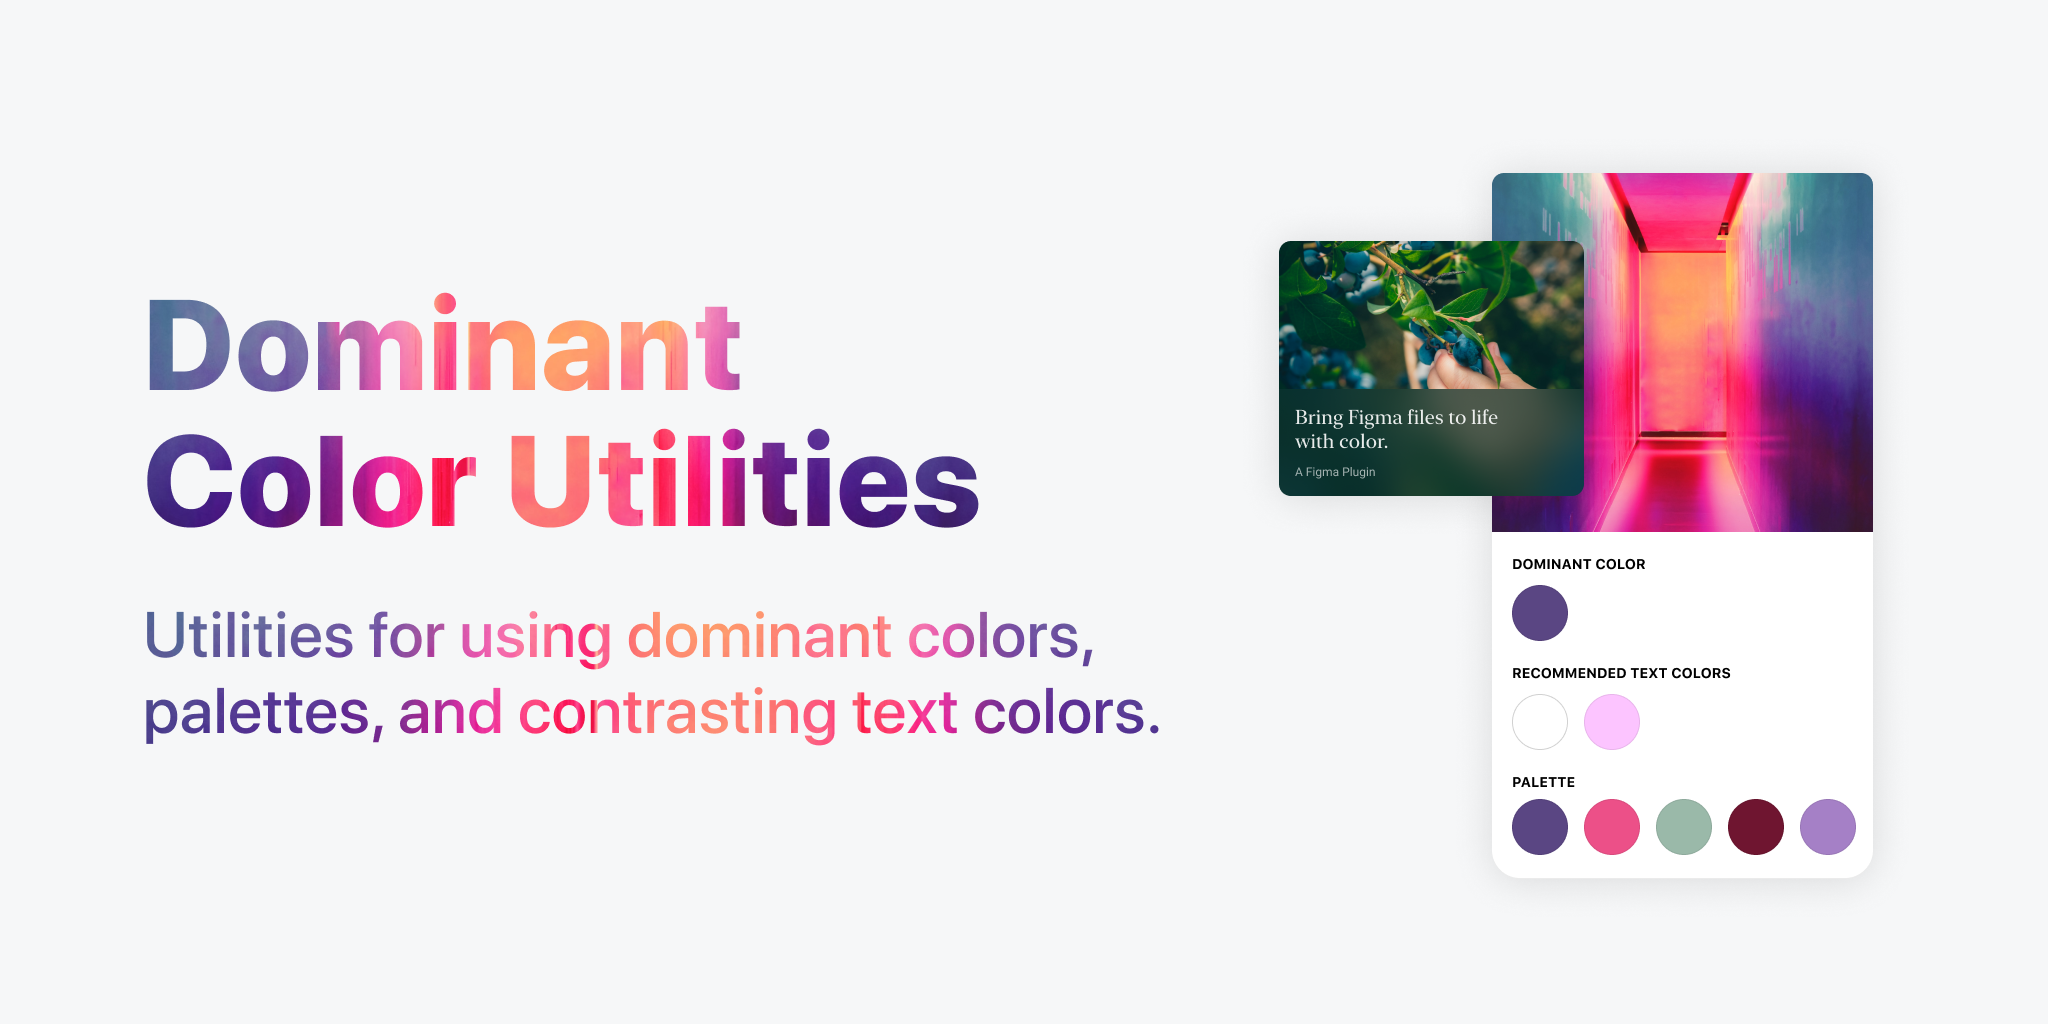
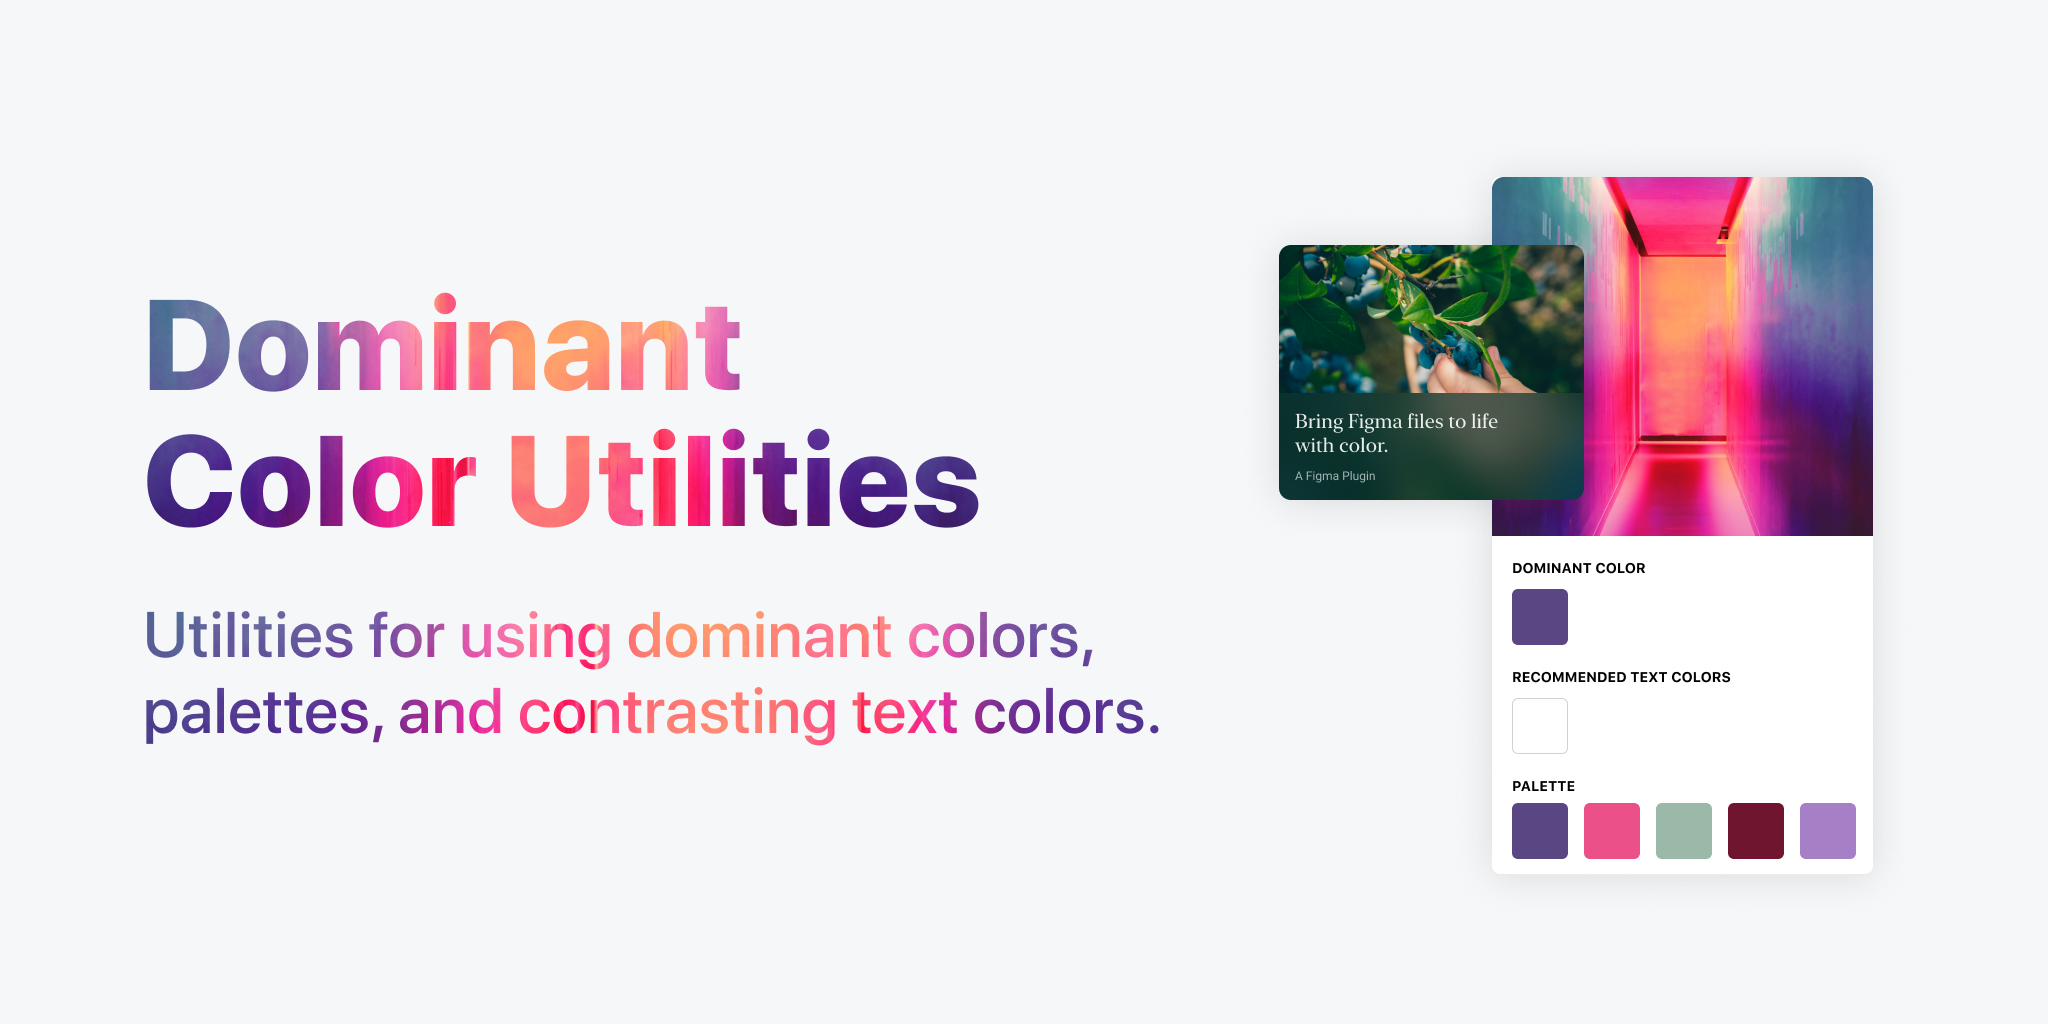
Polish

diff --git a/src/canvas.ts b/src/canvas.ts
@@ -12,6 +12,8 @@ export async function generateColorGuideFrame(node, data: UIColorData): Promise<
   const maxImagePreviewHeight = 300
   const leftMargin = 16
   const black = { r: 0, g: 0, b: 0 }
+  const white = { r: 1, g: 1, b: 1 }
+  const paletteCornerRadius = 6
   
   const imagePreviewInset = 16
   const imageBoundsHeight = node.height > maxImagePreviewHeight
@@ -21,7 +23,7 @@ export async function generateColorGuideFrame(node, data: UIColorData): Promise<
   : node.height + (imagePreviewInset * 2)
   
   const contentStartY = imageBoundsHeight + labelTopMargin
-  const totalHeight = imageBoundsHeight + ((labelTopMargin + labelBottomMargin + swatchSize) * 3) + labelTopMargin
+  const totalHeight = imageBoundsHeight + ((labelTopMargin + labelBottomMargin + swatchSize) * 3) + leftMargin
 
   const fontName = { family: 'SF Pro Text', style: 'Bold'}
   await figma.loadFontAsync(fontName)
@@ -30,11 +32,23 @@ export async function generateColorGuideFrame(node, data: UIColorData): Promise<
   frame.resize(maxWidth, totalHeight)
   frame.x = node.x + node.width + 100
   frame.y = node.y
-  frame.effects = [{ type: 'DROP_SHADOW', visible: true, blendMode: "NORMAL", radius: 12, offset: { x: 0, y: 2 }, color: { ...black, a: 0.16 }}]
-  frame.name = "Dominant Color Utilities"
+  frame.backgrounds = []
+  frame.effects = []
+  frame.name = "Palette"
+  frame.clipsContent = false
+  const background = figma.createRectangle()
+  frame.appendChild(background)
+  background.x = 0
+  background.y = 0
+  background.resize(maxWidth, totalHeight)
+  background.cornerRadius = paletteCornerRadius
+  background.fills = [{ color: white, type: 'SOLID' }]
+  background.effects = [{ type: 'DROP_SHADOW', visible: true, blendMode: "NORMAL", radius: 12, offset: { x: 0, y: 2 }, color: { ...black, a: 0.16 }}]
 
   const imageBackground = figma.createRectangle()
   imageBackground.y = 0
+  imageBackground.topLeftRadius = paletteCornerRadius
+  imageBackground.topRightRadius = paletteCornerRadius
   imageBackground.resize(maxWidth, imageBoundsHeight)
   imageBackground.fills = [{ type: 'SOLID', color: dominantColor, opacity: 0.08 }]
   imageBackground.effects = [{ type: 'INNER_SHADOW', visible: true, blendMode: "NORMAL", radius: 0, offset: { x: 0, y: -1 }, color: { ...black, a: 0.08 }}]
@@ -84,13 +98,10 @@ export async function generateColorGuideFrame(node, data: UIColorData): Promise<
 
   const swatch = figma.createRectangle()
   swatch.name = "Swatch"
-  swatch.cornerRadius = 22
+  swatch.cornerRadius = 2
   swatch.resize(swatchSize, swatchSize)
   swatch.x = leftMargin
   swatch.y = dominantLabel.y + labelBottomMargin
-  swatch.strokeAlign = "INSIDE"
-  swatch.strokes = [{ type: 'SOLID', color: black, opacity: 0.08 }]
-  
   const dominantSwatch = swatch
   dominantSwatch.fills = [{ type: 'SOLID', color: dominantColor }]
   frame.appendChild(dominantSwatch)
@@ -100,6 +111,12 @@ export async function generateColorGuideFrame(node, data: UIColorData): Promise<
     paletteSwatch.x = leftMargin + (index * (swatchSize + swatchGap))
     paletteSwatch.y = recommendedTextLabel.y + labelBottomMargin
     paletteSwatch.fills = [{ type: 'SOLID', color }]
+    // hacky way to determine if the swatch is white
+    const { r, g, b } = color
+    if (r === 1 && g === 1 && b === 1) {
+      paletteSwatch.strokeAlign = "INSIDE"
+      paletteSwatch.strokes = [{ type: 'SOLID', color: black, opacity: 0.08 }]
+    }
     frame.appendChild(paletteSwatch)
   }
   
@@ -109,6 +126,12 @@ export async function generateColorGuideFrame(node, data: UIColorData): Promise<
     paletteSwatch.x = leftMargin + (index * (swatchSize + swatchGap))
     paletteSwatch.y = paletteLabel.y + labelBottomMargin
     paletteSwatch.fills = [{ type: 'SOLID', color }]
+    // hacky way to determine if the swatch is white
+    const { r, g, b } = color
+    if (r === 1 && g === 1 && b === 1) {
+      paletteSwatch.strokeAlign = "INSIDE"
+      paletteSwatch.strokes = [{ type: 'SOLID', color: black, opacity: 0.08 }]
+    }
     frame.appendChild(paletteSwatch)
   }
 
